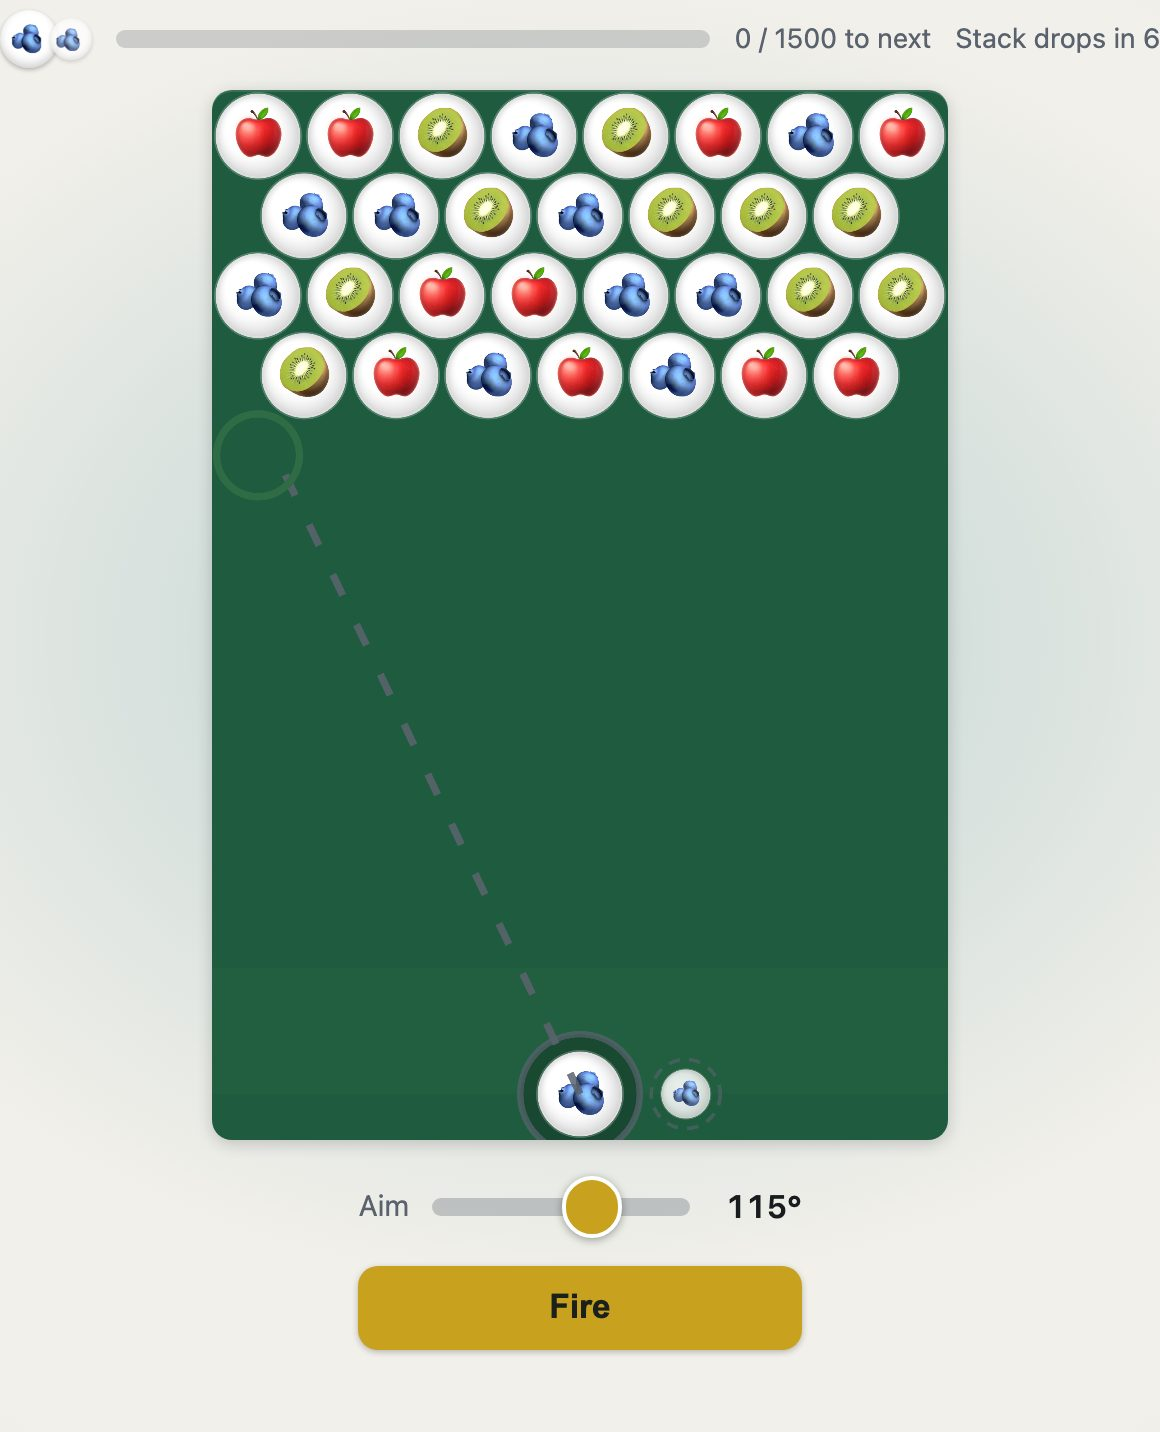
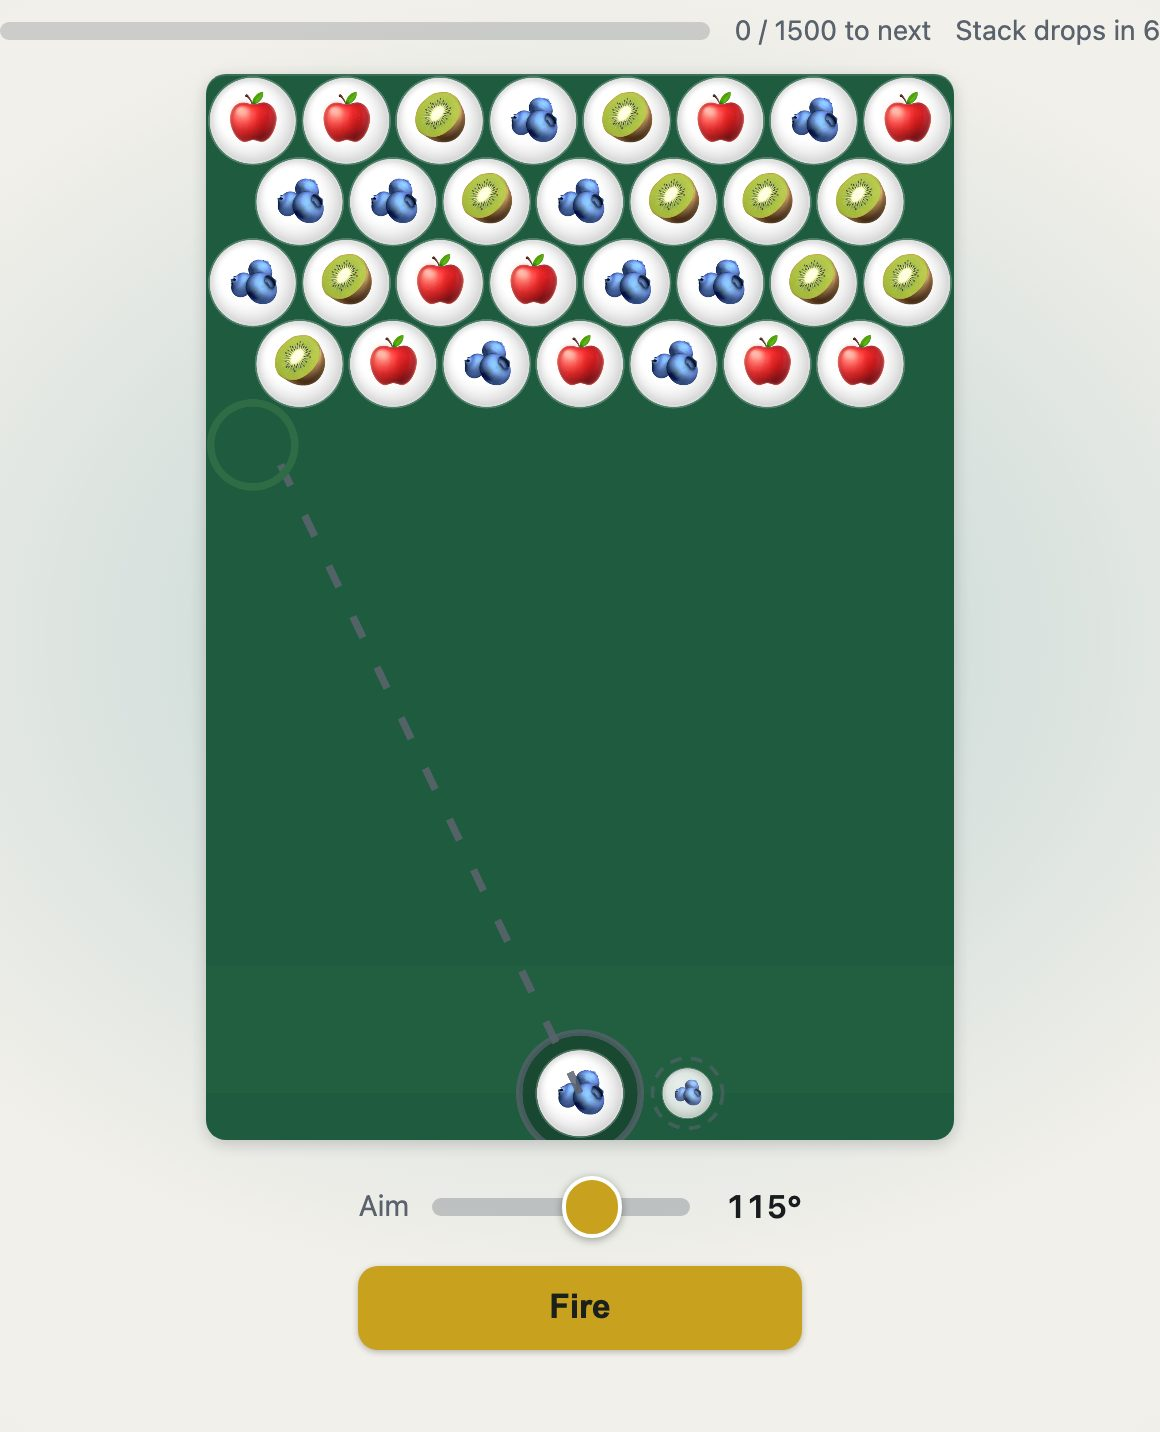
poster: the title with its subtitle beside it; bubble: the launcher chips leave the HUD
A shelf name split at its colon (contract.ts) renders as two spans in one
heading — Trio Tumble  Jewel Drop on one line at 390 — and the section names
the whole for a reader; the poster fits a phone again, and F1.3 says so
strictly for both posters. Bubble's launcher chips are for a screen reader
only now (the canvas has drawn loaded and next since phase 10a) and the HUD
is one line: a phone's canvas goes from 62% to 66% of the stage (F2.6).

Claude-Session: https://claude.ai/code/session_01TWKEm65NEjxkHoS1WJuz2b

Changed region(s): [[0.0, 0.0, 1.0, 0.7989], [0.5586, 0.7374, 0.6207, 0.7682], [0.4655, 0.7374, 0.5276, 0.7682]]

diff --git a/tests/play-surface.spec.ts b/tests/play-surface.spec.ts
@@ -120,10 +120,9 @@ test("mock F1.3 (phase 5, Q6): a choice of three or fewer is a segmented control
     }, row);
     expect(m.segmented, `${id}: ${row} is segmented`).toBe(true);
     expect(m.h, `${id}: the ${row} row is one line of segments plus its hint`).toBeLessThanOrEqual(140);
-    // Chess fits outright. Trio Tumble's two-line title on the lede panel (F1.4) leaves
-    // it a small scroll — under 48px — and F1.2's sticky Play keeps every option reachable.
-    // (56px on CI's Linux fonts, under 48 on a Mac's — the pitch wraps a line further there.)
-    expect(m.sh - m.ch, `${id}: the poster fits, or nearly`).toBeLessThanOrEqual(id === "chess" ? 0 : 80);
+    // Both fit outright: Trio Tumble's name is split — the title on one line, the
+    // subtitle beside it — so the lede panel (F1.4) no longer costs it the fit.
+    expect(m.sh, `${id}: the poster fits without scrolling`).toBeLessThanOrEqual(m.ch);
     // A segment is still a radio a player (and a test) can check by value.
     const opt = page.locator(`.gf-poster [data-setting="${row}"] input`).last();
     await opt.check();
@@ -448,7 +447,8 @@ const FILL_REST: readonly { id: string; url: string; surface: string; desktop: {
   { id: "solitaire", url: "/solitaire/?seed=7", surface: ".sol-board", desktop: { w: 0.85 }, phone: { w: 0.9 } },
   // A tall shooter: the height, on both — the chips and the aim bar take the rest (a phone
   // leaves it 62%: 588 less 62 + 93 + 22 for them); no 22rem cap on a desktop any more.
-  { id: "bubble", url: "/bubble/?seed=7", surface: ".bub-canvas", desktop: { h: 0.7 }, phone: { h: 0.6 } },
+  // (the launcher chips left the HUD for the canvas, which already draws them: 0.62 → 0.66 on a phone)
+  { id: "bubble", url: "/bubble/?seed=7", surface: ".bub-canvas", desktop: { h: 0.7 }, phone: { h: 0.65 } },
   // The card table: cards grow with the room on a desktop.
   { id: "cribbage", url: "/cribbage/?seed=7", surface: ".crib-table", desktop: { w: 0.7 }, phone: { w: 0.95 } },
 ];

diff --git a/src/game-frame.ts b/src/game-frame.ts
@@ -97,6 +97,8 @@ export interface GameFrameOptions {
 export interface StartOptions {
   readonly id: string;
   readonly title: string;
+  /** The shelf name's second half ("Jewel Drop"), shown beside the title on its own span. */
+  readonly subtitle?: string;
   readonly pitch?: string;
   /** A chip above the title on the poster ("Today's puzzle · par 32"), or null. */
   readonly chip?: string | null;
@@ -493,7 +495,14 @@ export function renderGameFrame(host: HTMLElement, spec?: GameFrameSpec, opts: G
       // unreadable (owner, 2026-09-08, Trio Tumble and Dots at 390×844).
       const lede = el("div", { class: "gf-start-lede" });
       if (o.chip) lede.append(el("span", { class: "gf-start-chip" }, o.chip));
-      lede.append(el("h2", { class: "gf-start-title" }, o.title));
+      lede.append(
+        el(
+          "h2",
+          { class: "gf-start-title" },
+          el("span", { class: "gf-start-name" }, o.title),
+          ...(o.subtitle ? [" ", el("span", { class: "gf-start-sub" }, o.subtitle)] : []),
+        ),
+      );
       if (o.pitch) lede.append(el("p", { class: "gf-start-pitch" }, o.pitch));
       body.append(lede);
       if (o.setup && o.setup.length > 0) {
@@ -502,7 +511,7 @@ export function renderGameFrame(host: HTMLElement, spec?: GameFrameSpec, opts: G
       body.append(play);
       start = el(
         "section",
-        { class: "gf-start gf-poster", "aria-label": `Start ${o.title}` },
+        { class: "gf-start gf-poster", "aria-label": `Start ${o.subtitle ? `${o.title}: ${o.subtitle}` : o.title}` },
         el("img", { class: "gf-start-art", src: `/${o.id}/assets/splash.jpg`, alt: "" }),
         el("div", { class: "gf-start-veil", "aria-hidden": "true" }),
         body,

diff --git a/tests/game-frame.test.ts b/tests/game-frame.test.ts
@@ -405,3 +405,26 @@ describe("renderGameFrame — the ground", () => {
     expect(frame.stage.hasAttribute("data-ground")).toBe(false);
   });
 });
+
+// The poster's title and subtitle (follow-up 2026-09-08): a shelf name is split at
+// the colon (contract.ts) so a 23-character name fits a phone; the poster shows the
+// title on its own line with the subtitle beside it, and names the whole for a reader.
+describe("renderGameFrame — the poster's title", () => {
+  const start = (frame: ReturnType<typeof renderGameFrame>, over: { title: string; subtitle?: string }): HTMLElement => {
+    frame.renderStart({ id: "trio-tumble", ...over, progress: null, onPlay: () => {}, onResume: () => {}, onNewGame: () => {} });
+    return frame.root.querySelector(".gf-poster")!;
+  };
+  it("shows the title and the subtitle as two spans in one heading, and names the section with both", () => {
+    const poster = start(renderGameFrame(host, spec()), { title: "Trio Tumble", subtitle: "Jewel Drop" });
+    const h2 = poster.querySelector(".gf-start-title")!;
+    expect(h2.querySelector(".gf-start-name")?.textContent).toBe("Trio Tumble");
+    expect(h2.querySelector(".gf-start-sub")?.textContent).toBe("Jewel Drop");
+    expect(poster.getAttribute("aria-label")).toBe("Start Trio Tumble: Jewel Drop");
+  });
+  it("a title alone has no subtitle span", () => {
+    const poster = start(renderGameFrame(host, spec()), { title: "Othello" });
+    expect(poster.querySelector(".gf-start-title")!.textContent).toBe("Othello");
+    expect(poster.querySelector(".gf-start-sub")).toBeNull();
+    expect(poster.getAttribute("aria-label")).toBe("Start Othello");
+  });
+});

diff --git a/styles.css b/styles.css
@@ -725,6 +725,14 @@ body:has(> .play-area > .gf) {
   font-size: 2rem;
   line-height: 1;
 }
+/* The shelf name's second half, beside the title: "Trio Tumble  Jewel Drop" on one
+   line at 390, where the joined 23-character name wrapped and cost the poster its fit. */
+.gf-start-sub {
+  font-size: 1.05rem;
+  font-weight: 600;
+  color: var(--ink-muted);
+  white-space: nowrap;
+}
 .gf-start-chip {
   display: inline-flex; align-items: center; gap: 0.35rem;
   padding: 0.3rem 0.7rem; margin-bottom: 0.5rem;
@@ -2251,6 +2259,17 @@ body:has(> .play-area > .gf) {
   background: var(--active);
   border-radius: 999px;
 }
+/* The launcher chips name the loaded and the next piece for a reader; the canvas
+   has drawn both since phase 10a, so on screen they take no room (F2.6: a phone's
+   canvas went from 62% to 66% of the stage). */
+.bub-launcher-hud {
+  position: absolute;
+  width: 1px;
+  height: 1px;
+  overflow: hidden;
+  clip: rect(0 0 0 0);
+  white-space: nowrap;
+}
 .bub-loaded {
   display: inline-flex;
   align-items: center;
@@ -2287,7 +2306,7 @@ body:has(> .play-area > .gf) {
   gap: 0.75rem;
   margin: 0.3rem 0;
   color: var(--ink);
-  flex-wrap: wrap;
+  flex-wrap: nowrap; /* one line: the launcher chips left it (below), so the canvas gets the row */
 }
 
 .bub-launcher-hud {

diff --git a/tests/bubble.spec.ts b/tests/bubble.spec.ts
@@ -22,7 +22,8 @@ test("the board renders a canvas, a launcher chip, an aim control and the HUD", 
   await page.goto("/bubble/?variant=classic&seed=7");
   await ready(page);
   await expect(page.locator(".bub-canvas")).toHaveAttribute("aria-label", /bubbles left/i);
-  await expect(page.locator(".bub-loaded")).toBeVisible();
+  // The chips name the launcher for a reader; the canvas draws it (phase 10a), so they take no room.
+  await expect(page.locator(".bub-loaded")).toBeAttached();
   // Mock F phase 10 (owner Q7, 2026-09-05): the pieces are fruit. The launcher chip
   // names the loaded fruit for a screen reader and shows its emoji.
   await expect(page.locator(".bub-loaded")).toHaveAttribute("aria-label", /^Launcher loaded: (apple|blueberries|kiwi|grapes|orange|lemon)$/);

diff --git a/src/chrome.ts b/src/chrome.ts
@@ -410,7 +410,8 @@ export function boot(root: HTMLElement = document.body): Chrome {
     const showStart = (): void => {
       theFrame.renderStart({
         id: game.id,
-        title: displayName(game),
+        title: game.title,
+        ...(game.subtitle ? { subtitle: game.subtitle } : {}),
         ...(game.pitch ? { pitch: game.pitch } : {}),
         ...(game.setup ? { setup: game.setup() } : {}),
         ...(game.chip ? { chip: game.chip() } : {}),

diff --git a/CHANGELOG.md b/CHANGELOG.md
@@ -12,6 +12,14 @@ earlier is in `git log`.
 
 ## 2026-09
 
+- 2026-09-08 **checkers, chess, cribbage:** more life. A moved man or piece slides in from the
+  square it left; the cribbage show calls the hand's or the crib's total, a hand of nothing is
+  a nineteen, and muggins names what was taken. (beats follow-up)
+- 2026-09-08 **bubble:** the launcher chips left the HUD — the canvas has drawn the loaded and
+  the next piece since the fruit landed — so a phone's board is taller; they still name the
+  pieces for a screen reader.
+- 2026-09-08 **every poster:** a shelf name split at its colon shows the title with the subtitle
+  beside it, so "Trio Tumble  Jewel Drop" is one line and its poster fits a phone again.
 - 2026-09-08 **every poster:** the title and pitch sit on a translucent, blurred panel over
   the art. The splash carries its own lettering, and the pitch set straight on it was
   unreadable (Trio Tumble, Dots on a phone). (owner review of PR #82)
